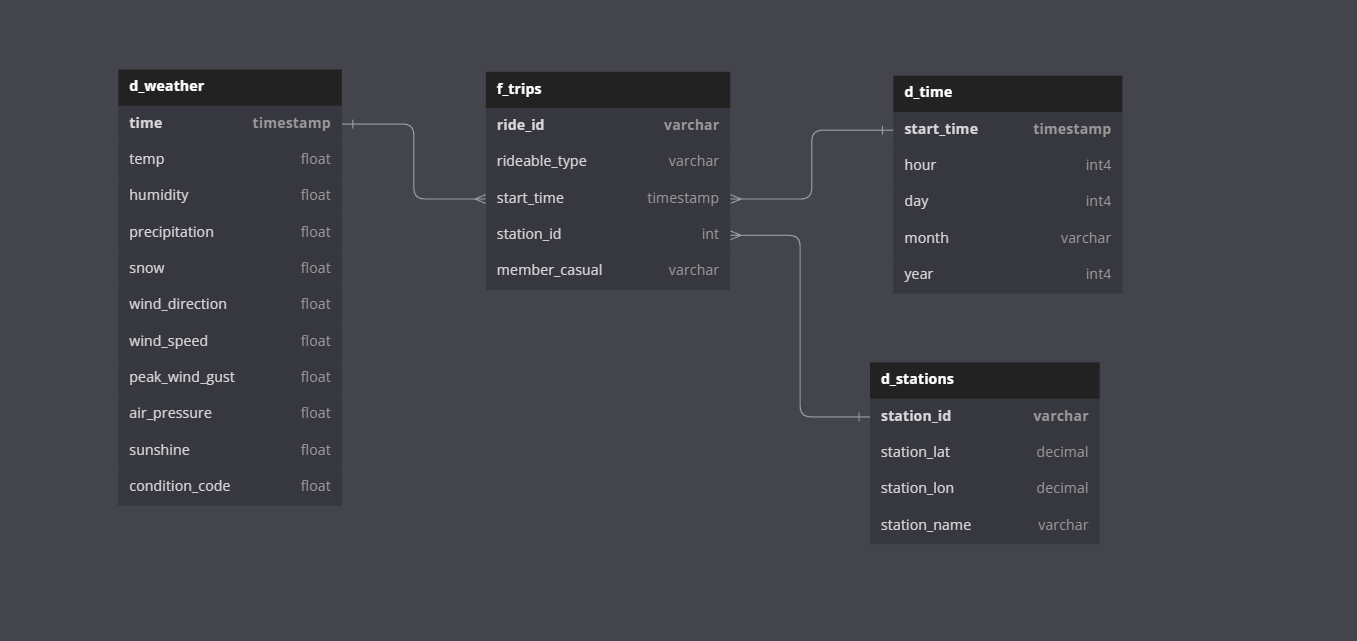
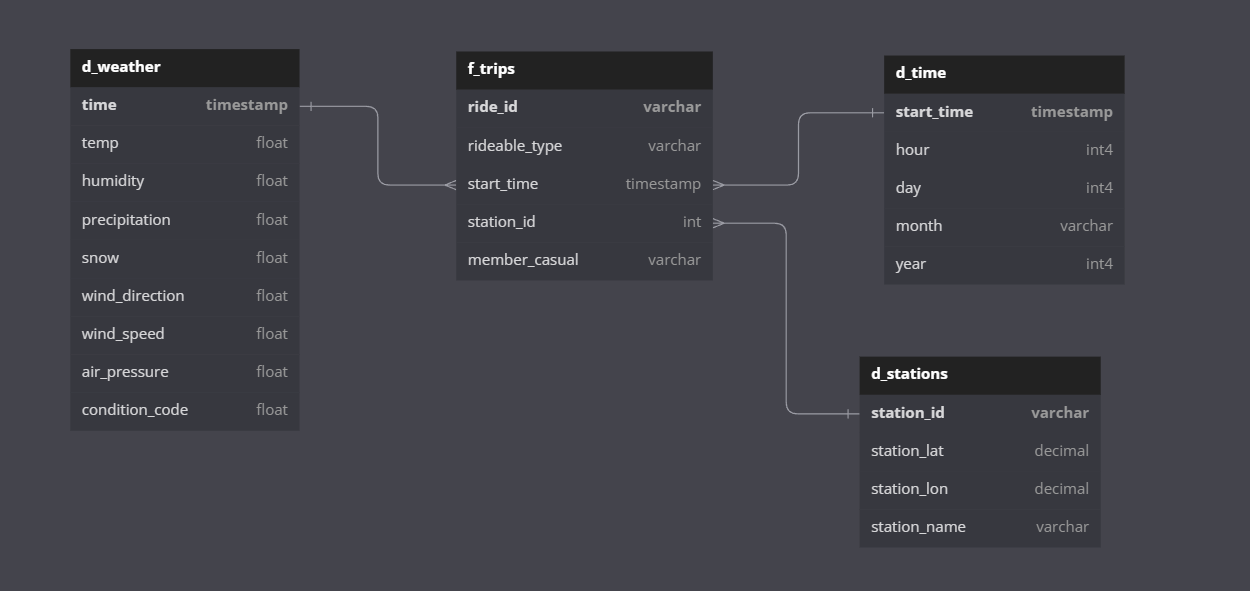
add imgs, sample queries and data dict

diff --git a/README.md b/README.md
@@ -7,39 +7,6 @@ Python API and trips data from a bike share company located in Washington, D.C. 
 schema in Redshift to create an easy-to-use model for machine learning to make predictions on the number of
 bike share users in relation to weather. The pipeline will execute monthly and update the data in the cluster.
 
----
-
-## Data
-
-### Bike share trips
-
-[Capital Bikesahre](https://ride.capitalbikeshare.com/system-data), since the data stored in S3
-are formatted as 'zip', and Redshift is unable to process them with a 'Copy' command into Redshift. I transferred the unzipped
-files into a new S3 bucket(s3://gz-capitalbikeshare-data), which can be done via script or using [S3FileTransformOperator]
-(https://airflow.apache.org/docs/apache-airflow-providers-amazon/stable/_api/airflow/providers/amazon/aws/operators/s3/index.html),
-Note: I'm planning to add a script to the project to fully automate the pipeline.
-Files' name come in the format: YYYYMM-capitalbikeshare-tripdata.csv
-
-### Weather
-[Meteostat](https://dev.meteostat.net/python/)'s python API, which provides weather and climate data, given a time interval and
-location, in form of a pandas DataFrame, that looks as shown below:
-
-**column_name, description, type**:
-- `time` The datetime of the observation	        Datetime64
-- `temp` The air temperature in °C	                Float64
-- `dwpt` The dew point in °C	                    Float64
-- `rhum` The relative humidity in percent (%)	    Float64
-- `prcp` The one hour precipitation total in mm	    Float64
-- `snow` The snow depth in mm	                    Float64
-- `wdir` The average wind direction in degrees (°)	Float64
-- `wspd` The average wind speed in km/h	            Float64
-- `wpgt` The peak wind gust in km/h	                Float64
-- `pres` The average sea-level air pressure in hPa	Float64
-- `tsun` The one hour sunshine total in minutes (m)	Float64
-- `coco` The weather condition code	                Float64
-
----
-
 ## How to run
 
 Made with python version: 3.10.1
@@ -64,30 +31,45 @@ Once in the airflow web UI:
 - run create_tables dag and wait for the dag to finish
 - run load_data dag (this might take a long time to complete all the tasks)
 
----
+Pipeline looks as follows:
+
+![load_data Dag](imgs/load_tables_completed_dag.PNG)
 
 ## Schema
+
+The [Star schema](https://en.wikipedia.org/wiki/Star_schema) makes it easy to query and organize large amounts of data,
+aggregate it into smaller chunks and use it for business intelligence and analytics. Since the datasets don't include a
+large variety of columns and we don't need to use multiple joins, this schema is ideal for the warehouse.
  
-All data is first staged into two tables in Redshift, then, usable data is copied to different tables
-building a [Star schema](https://en.wikipedia.org/wiki/Star_schema)
+All data is first staged into two tables in Redshift; then, usable data is copied into different tables to
+build the schema structure.
 
 ![Staging tables](imgs/staging_tables.PNG)
 
 ![Schema](imgs/table_structure.PNG)
 
----
+## Data
 
-## Dags
+### Bike share trips
 
-- **create_tables.py** drop and create each table
+[Capital Bikesahre](https://ride.capitalbikeshare.com/system-data), data is stored in S3 formatted as 'zip', but Redshift is unable to process
+them with a 'Copy' command; thus, I downloaded the files, unzipped them and transferred the files into a new S3 bucket(s3://gz-capitalbikeshare-data).
+This process can be done via script or using Airflow's 
+[S3FileTransformOperator](https://airflow.apache.org/docs/apache-airflow-providers-amazon/stable/_api/airflow/providers/amazon/aws/operators/s3/index.html).
+Note: I'm planning to add the script to the project in the future to fully automate the pipeline, including unzipping the data and upload it in a
+suitable format. Files' name come in the format: YYYYMM-capitalbikeshare-tripdata.csv
 
-![create_tables Dag](imgs/create_tables_dag.PNG)
+### Weather
+[Meteostat](https://dev.meteostat.net/python/)'s python API, which provides weather and climate data, given a time interval and
+location, in form of a pandas DataFrame, that looks as shown below:
 
-- **load_data.py** extract and copy data into the tables, check with custom queries
+Raw data comes in the following format:
 
-![load_data Dag](imgs/load_data_dag.PNG)
+![stage dictionary](imgs/tables.PNG)
 
----
+And is then transform into:
+
+![data dictionary](imgs/star_dictionary.PNG)
 
 ## Write Up
 
@@ -101,7 +83,20 @@ Airflow. Redshift provides great performance on large data sets, access to a bro
 and an easy way to copy data from S3.
 
 Weather data involves a much smaller dataset, which can be fetched via API and directly pushed into Redshift through
-an Airflow operator.
+an Airflow operator. However, this may exeed Airflow's memory limit and might take a few retries before fully execute.
+
+### Sample queries
+
+As an easy example of how weather affects bike share users, when we compare the relation between `condition_code` and
+the number of rides, we can see how most rides occur in values between 2-4:
+
+![rides_vs_coco](imgs/condition_rides_join_s_time.PNG)
+
+Also, some values have a stronger influence on bike use, like temperature and wind speed. Due to the
+seasons, the temperature has a high impact on the bike share industry, as the rides decrease noticeably between 
+December and February, but there is a low deviation in the wind speed throughout the year:
+
+![wsp_temp_by_month](imgs/ride_by_month_wsp_temp.PNG)
 
 ### Addressing Other Scenarios
 
